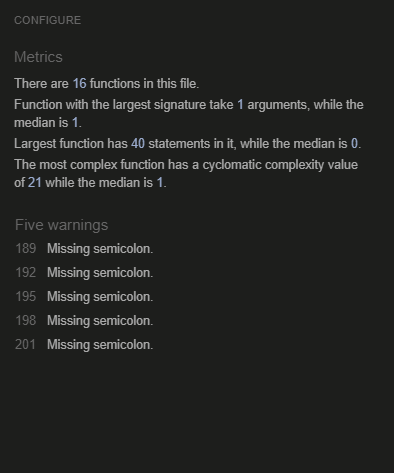
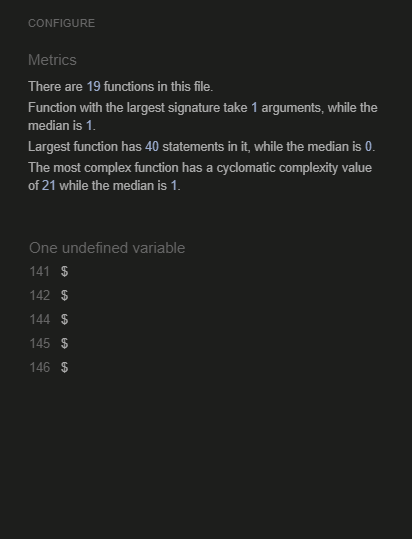
docs: Replace jshint.png image and text in README validator testing

Changed region(s): [[0.0305, 0.0888, 0.9442, 0.4144], [0.0305, 0.444, 0.4569, 0.74], [0.0305, 0.0296, 0.2437, 0.0592]]

diff --git a/README.md b/README.md
@@ -220,8 +220,8 @@ The logic used for radio input validation was a jquery function with an if state
 ![](docs/playcss.png)
 
 *Javascript*
-* Five errors for missing semi colon was returned when passing the code through [JSHint validator](https://jshint.com/)
-* My attempt to add the missing semi colon to the referenced linesm caused errors to display on my Vs Code editor and for want of time, I could not go through the lines of code to fix it
+* When passing the code through [JSHint validator](https://jshint.com/), the $ sign in the jsquery function came up as an undefined variable.
+
 
 ![](docs/jshint.png)
 
